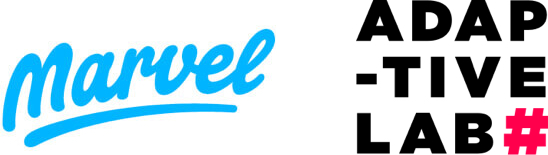
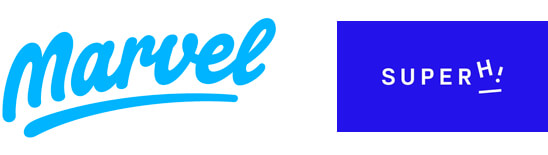
adding sponsors

diff --git a/_includes/partners.html b/_includes/partners.html
@@ -4,7 +4,7 @@
       <p class="text-white">Our partners</p>
       <div class="next-event__about--content">
         <h2 class="text-white u-margin-Bxs">Our new best friends</h2>
-        <p class="text-medium text-white">To keep tickets free, and the drinks flowing, we’ve partnered with two of the coolest companies a designer could ever work with. Check out <a href="https://marvelapp.com" target="_blank" class="link-invert">Marvel</a> for powerful prototyping tools, and <a href="http://adaptivelab.com" target="_blank" class="link-invert">Adaptive Lab</a> for the next step in your career.</p>
+        <p class="text-medium text-white">To keep tickets free, and the drinks flowing, we’ve partnered with two of the coolest companies a designer could ever work with. Check out <a href="https://marvelapp.com" target="_blank" class="link-invert">Marvel</a> for powerful prototyping tools, and <a href="http://superhi.com" target="_blank" class="link-invert">SuperHi</a> for the best way to learn to code.</p>
       </div>
     </div>
 

diff --git a/index.html b/index.html
@@ -13,6 +13,6 @@ layout: home
 
 {% include latest-blog.html %}
 
-<!-- {% include partners.html %} -->
+{% include partners.html %}
 
 {% include hero-end.html %}
